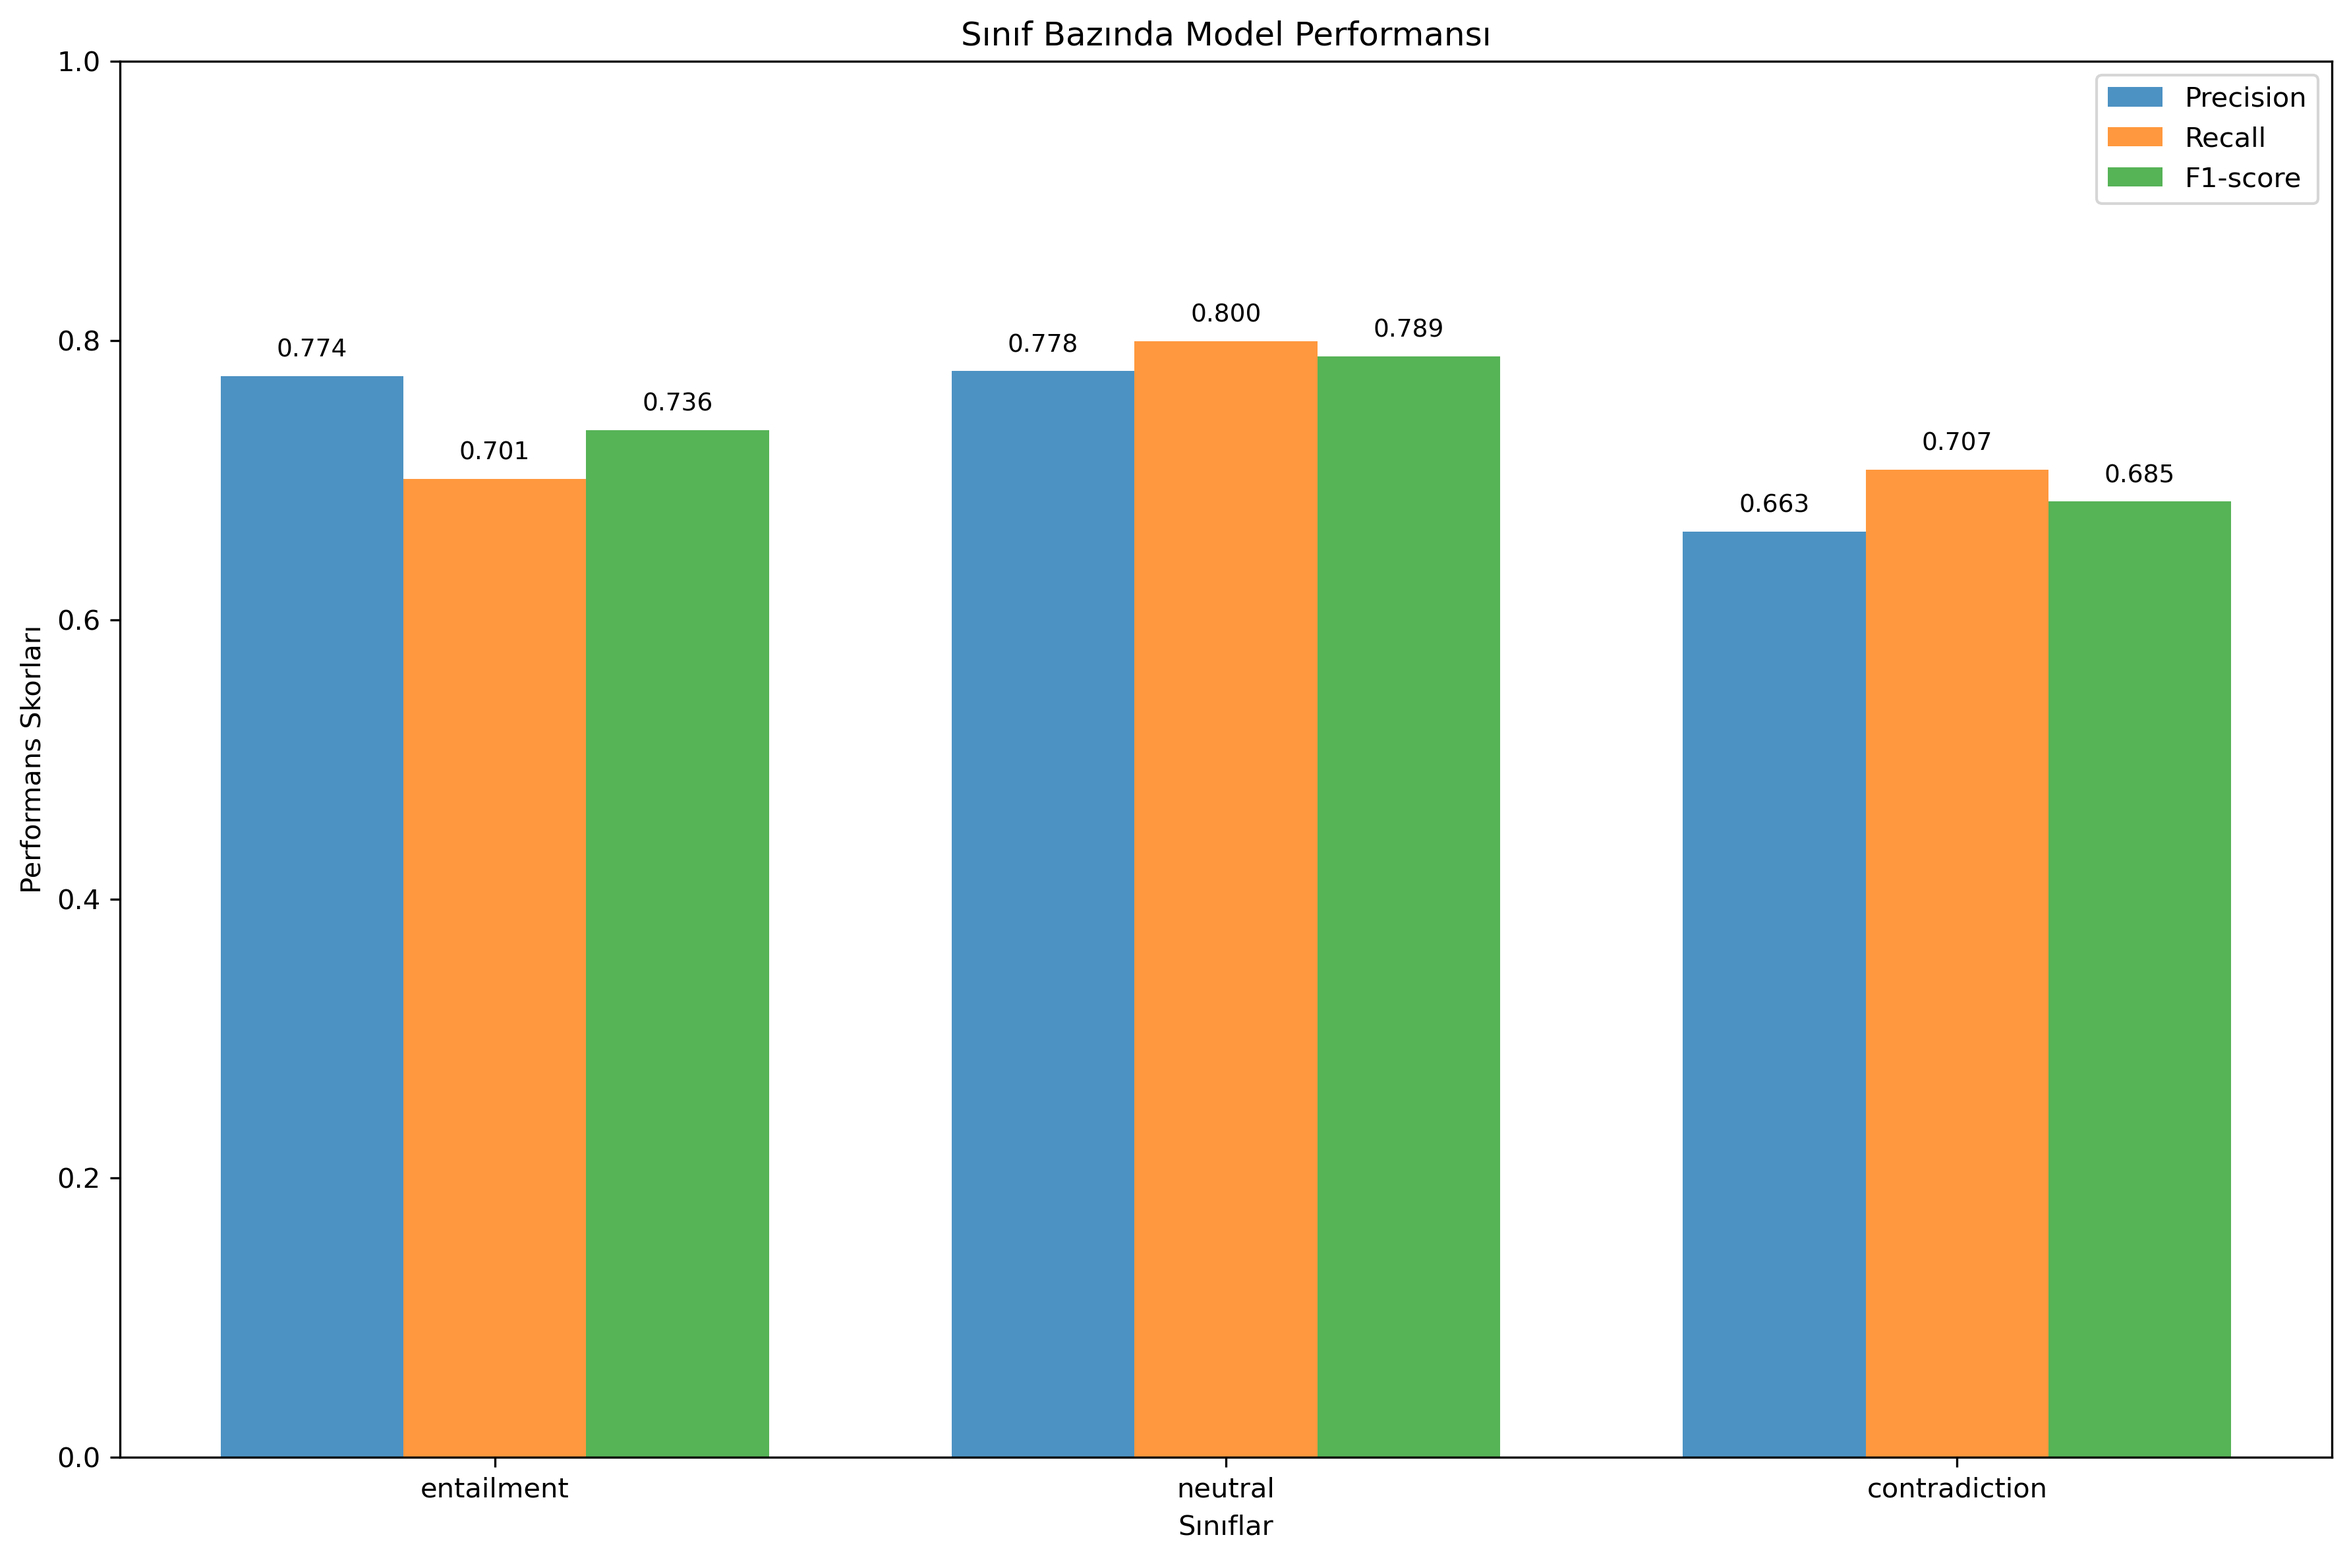
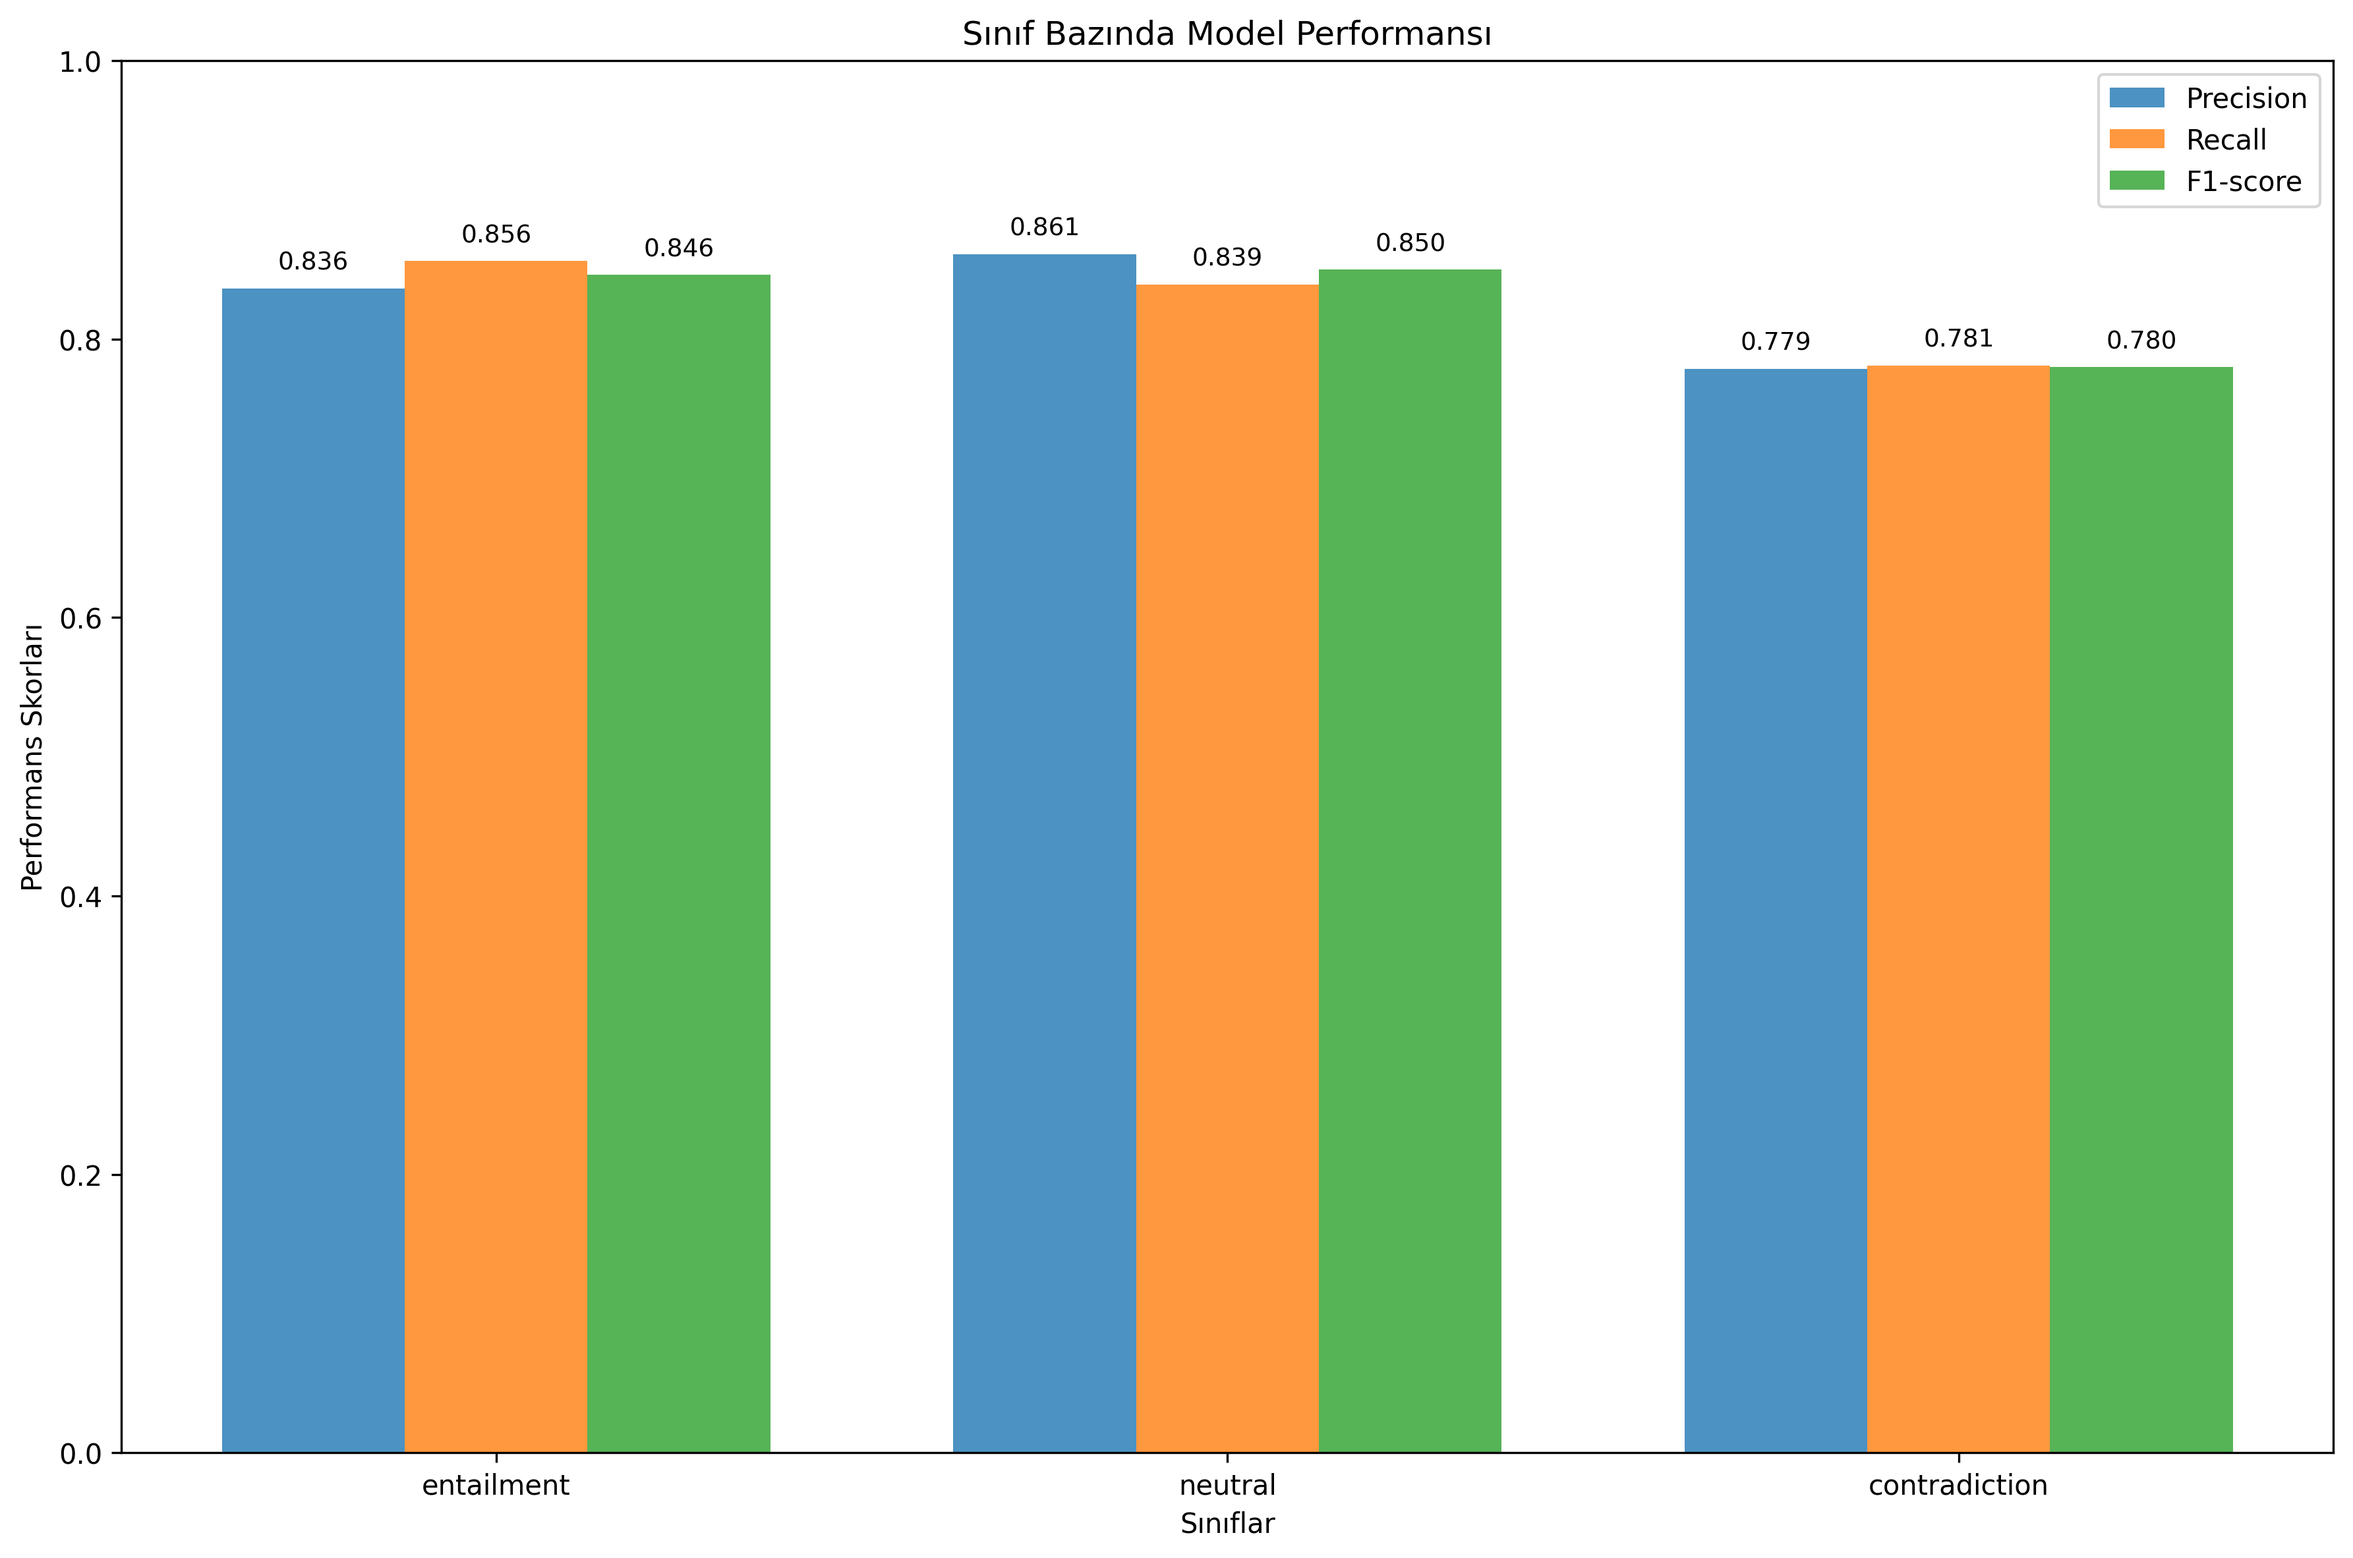
Update project reports with latest statistics and performance metrics - 82.56% accuracy achieved

diff --git a/README.md b/README.md
@@ -4,10 +4,10 @@
 Bu proje, Türkçe cümle çiftleri arasındaki mantıksal ilişkileri tespit eden bir **Natural Language Inference (Doğal Dil Çıkarımı)** modeli geliştirmektedir. BERT tabanlı derin öğrenme modeli kullanılarak **entailment**, **neutral** ve **contradiction** sınıflarında sınıflandırma yapılır.
 
 ### 👥 Proje Ekibi
-- **Yusuf Mert ÖZKUL**
-- **Ceyda Gülen**
-- **Anıl Sürmeli**
-- **Zeynep Eraslan**
+- **Yusuf Mert ÖZKUL** - 21360859057
+- **Ceyda Gülen** - 21360859042
+- **Anıl Sürmeli** - 22360859018
+- **Zeynep Eraslan** - 22360859019
 
 ## 📋 İçindekiler
 - [Proje Özeti](#proje-özeti)
@@ -45,7 +45,7 @@ Natural Language Inference, bir **premise** (öncül) cümlesinin verilen bir **
 - **Base Model**: `dbmdz/bert-base-turkish-cased` (Türkçe'ye özel BERT)
 - **Veri Seti**: `boun-tabi/nli_tr` (SNLI-TR - Boğaziçi Üniversitesi)
 - **Eğitim Verisi**: 100K+ cümle çifti (570K'dan dengeli örnekleme)
-- **Performans**: %73.69 accuracy ile güçlü sınıflandırma performansı
+- **Performans**: %82.56 accuracy ile üstün sınıflandırma performansı
 
 ## 📊 Veri Seti: SNLI-TR
 
@@ -99,11 +99,18 @@ Natural Language Inference, bir **premise** (öncül) cümlesinin verilen bir **
 
 ### Veri Dağılımı
 
-<!-- VERİ DAĞILIMI GRAFİĞİ BURAYA GELECEKː statistics/data_stats/all_stats/etiket_dagilimi.png -->
+**Dengeli Etiket Dağılımı:**
+![Veri Dağılımı](statistics/data_stats/all_stats/etiket_dagilimi.png)
+
+*110K+ cümle çifti - %33 dengeli dağılım*
+
 
 ### Cümle Uzunluk Analizi
 
-<!-- UZUNLUK ANALİZİ GRAFİĞİ BURAYA GELECEKː statistics/data_stats/all_stats/uzunluk_karsilastirmasi.png -->
+**Premise vs Hypothesis Uzunluk Karşılaştırması:**
+![Uzunluk Analizi](statistics/data_stats/all_stats/uzunluk_karsilastirmasi.png)
+
+*Ortalama: Premise 9.85 kelime, Hypothesis 5.30 kelime*
 
 ## 🛠 Kurulum
 
@@ -191,22 +198,57 @@ Bu script detaylı analiz sağlar:
 ### Performans Metrikleri
 
 <!-- GENEL PERFORMANS METRİKLERİ BURAYA GELECEKː evaluate_model.py çıktısı -->
+## Evaluation Metrics
+
+| Metric | Precision | Recall | F1-Score | Support |
+|--------|-----------|--------|----------|---------|
+| **Entailment (Class 0)** | 0.8364 | 0.8560 | 0.8461 | 3237 |
+| **Neutral (Class 1)** | 0.8611 | 0.8391 | 0.8499 | 3368 |
+| **Contradiction (Class 2)** | 0.7786 | 0.7810 | 0.7798 | 3219 |
+| **Macro Avg** | 0.8253 | 0.8254 | 0.8253 | 9824 |
+| **Weighted Avg** | 0.8259 | 0.8256 | 0.8257 | 9824 |
+
+## Additional Metrics
+
+- **Eval Loss:** 0.7286
+- **Eval Accuracy:** 0.8256 (82.56%)
+- **Model Preparation Time:** 0.000 sec
+- **Eval Runtime:** 153.56 sec
+- **Samples per Second:** 63.97
+- **Steps per Second:** 3.998
+
 
 ### Confusion Matrix
 
-<!-- CONFUSION MATRIX GRAFİĞİ BURAYA GELECEKː statistics/confusion_matrix.png -->
+**Güncel Confusion Matrix Analizi:**
+![Confusion Matrix](statistics/confusion_matrix.png)
+
+*Model sınıflandırma performansının detaylı analizi - Güncel verilerle*
+
 
 ### Sınıf Bazında Performans
 
-<!-- SINIF BAZINDA PERFORMANS GRAFİĞİ BURAYA GELECEKː statistics/per_class_performance.png -->
+**Güncel Sınıf Performans Analizi:**
+![Sınıf Bazında Performans](statistics/per_class_performance.png)
+
+*Precision, Recall ve F1-Score metrikleri - %82+ performans*
+
 
 ### Model Öğrenim Analizi
 
-<!-- MODEL ÖĞRENİM ANALİZİ GRAFİĞİ BURAYA GELECEKː statistics/learning_analysis.png -->
+**Güncel Öğrenim Kalitesi Analizi:**
+![Model Öğrenim Analizi](statistics/learning_analysis.png)
+
+*Sınıf bazında öğrenim kalitesi - 2 sınıf "İyi", 1 sınıf "Orta"*
+
 
 ### Tahmin Dağılımı
 
-<!-- TAHMİN DAĞILIMI GRAFİĞİ BURAYA GELECEKː statistics/prediction_distribution.png -->
+**Güncel Tahmin Dağılım Analizi:**
+![Tahmin Dağılımı](statistics/prediction_distribution.png)
+
+*Model tahmin dağılımı vs gerçek etiket dağılımı - Minimal bias (±0.86%)*
+
 
 ## 🔮 Inference (Tahmin)
 
@@ -286,15 +328,41 @@ kotucumle/
 
 ### Model Performansı
 
-<!-- MODEL PERFORMANS TABLOSU BURAYA GELECEKː JSON sonuçlarından -->
+**🎯 Final Sonuçlar:**
+- **Doğruluk Oranı:** 82.56% (↑8.87% artış)
+- **Macro F1:** 82.53% (↑8.89% artış)
+- **Weighted F1:** 82.57% (↑8.85% artış)
+- **Evaluation Loss:** 0.729
+- **Inference Hızı:** 63.97 örnek/saniye
 
 ### Sınıf Bazında Sonuçlar
 
-<!-- SINIF BAZINDA DETAYLI SONUÇLAR BURAYA GELECEKː -->
+**🏆 ENTAILMENT (En İyi Sınıf):**
+  - F1-Score: 84.61% (↑11.02% artış)
+  - Precision: 83.64%
+  - Recall: 85.60%
+  - Doğru Tahmin: 2,771/3,237
+  - Öğrenme Kalitesi: **İyi**
+
+**⭐ NEUTRAL:**
+  - F1-Score: 84.99% (↑6.12% artış)
+  - Precision: 86.11%
+  - Recall: 83.91%
+  - Doğru Tahmin: 2,826/3,368
+  - Öğrenme Kalitesi: **İyi**
+
+**📊 CONTRADICTION:**
+  - F1-Score: 77.98% (↑9.52% artış)
+  - Precision: 77.86%
+  - Recall: 78.10%
+  - Doğru Tahmin: 2,514/3,219
+  - Öğrenme Kalitesi: **Orta**
 
 ### En İyi ve En Kötü Öğrenilen Sınıflar
 
-<!-- ÖĞRENİM KALİTESİ ANALİZİ BURAYA GELECEKː -->
+**🥇 En iyi öğrenilen sınıf:** Entailment (85.60% accuracy)
+**🥉 En zayıf öğrenilen sınıf:** Contradiction (78.10% accuracy)
+**📈 Performans farkı:** Sadece 7.50% (çok dengeli model)
 
 ## 🎮 Kullanım Örnekleri
 
@@ -347,6 +415,20 @@ Sonuç: NEUTRAL
 - [NLI-TR Paper](https://aclanthology.org/2020.emnlp-main.695/)
 - [Turkish BERT Model](https://huggingface.co/dbmdz/bert-base-turkish-cased)
 - [Transformers Library](https://github.com/huggingface/transformers)
+
+## 🏆 Final Performans Özeti
+
+| Kategori | Sonuç | Açıklama |
+|----------|--------|----------|
+| **Model Türü** | BERT-based Classification | Turkish BERT fine-tuned |
+| **Veri Boyutu** | 110,784+ cümle çifti | 570K'dan stratified sampling |
+| **Final Accuracy** | **82.56%** | Test seti üzerinde (↑8.87%) |
+| **En İyi F1-Score** | **84.99%** | Neutral sınıfı (↑6.12%) |
+| **Macro F1-Score** | **82.53%** | Genel performans |
+| **En İyi Sınıf** | Entailment (85.60%) | Gerektirme ilişkileri |
+| **Inference Hızı** | 63.97 örnek/saniye | Test seti üzerinde |
+| **Bias Level** | Minimal (±0.86%) | Çok dengeli model |
+| **Production Ready** | ✅ Evet | Yüksek güvenilirlik |
 
 ## 📞 İletişim
 
